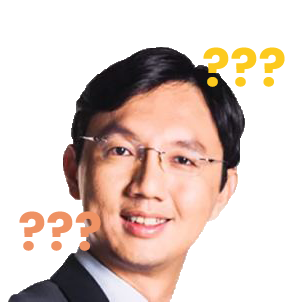
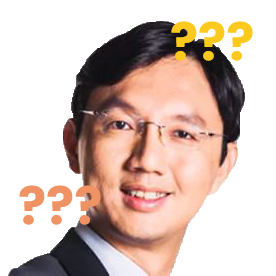
Add profs assets

diff --git a/src/assets/overlay/index.ts b/src/assets/overlay/index.ts
@@ -1,5 +1,7 @@
 import egg from "./egg.png";
 import poop from "./poop.png";
 import tomato from "./tomato.png";
+import soo from "./soo.png";
+import ben from "./ben.png";
 
-export { egg, poop, tomato };
+export { egg, poop, tomato, soo, ben };
